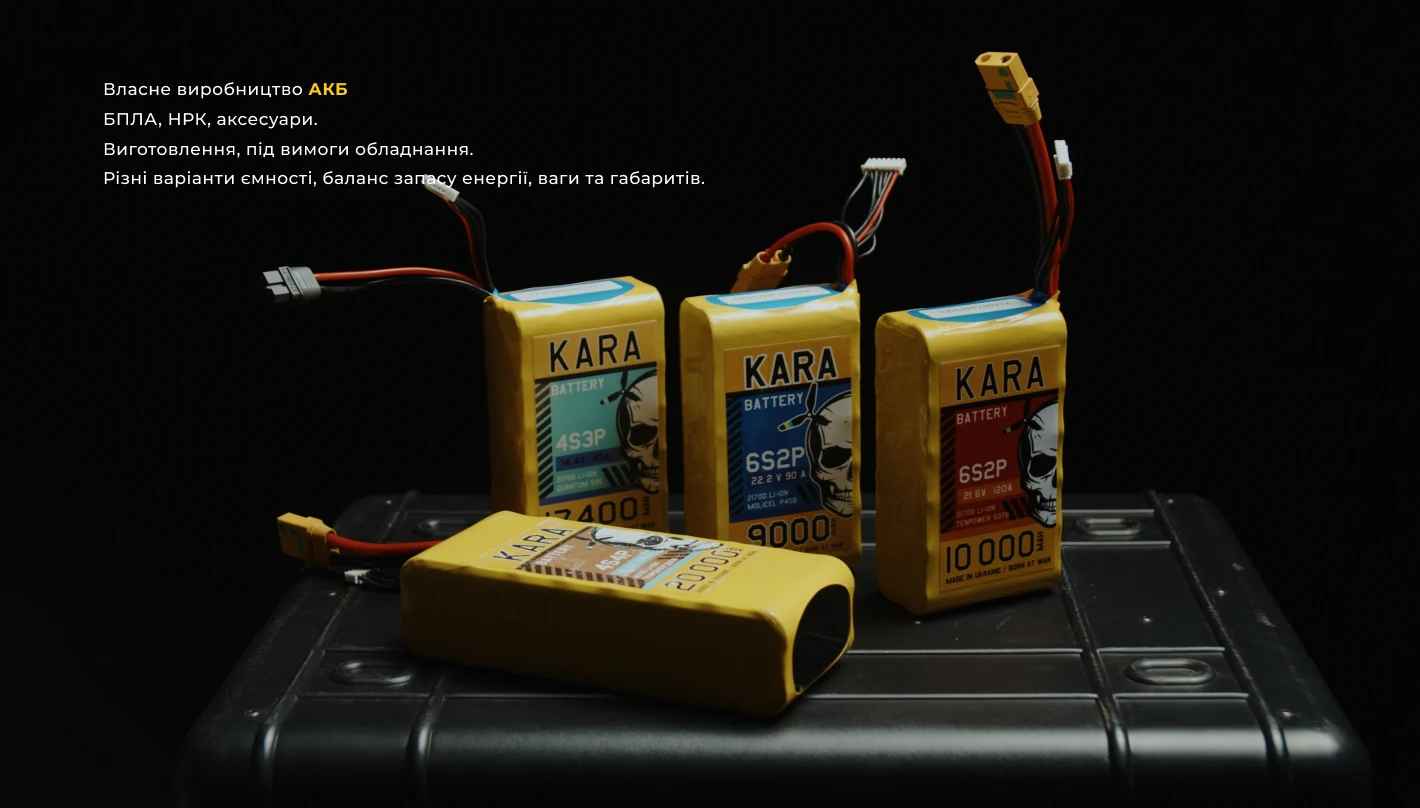
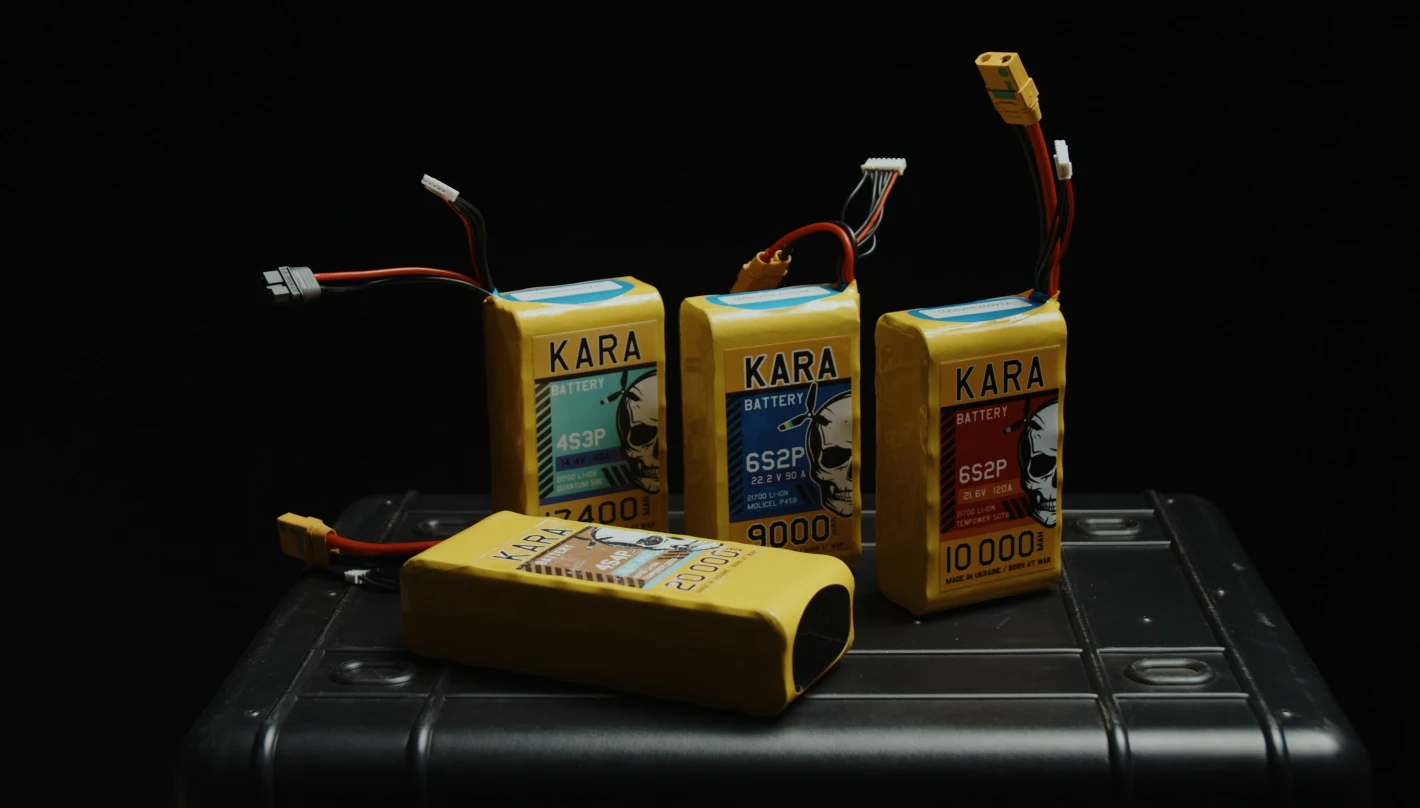
Make АКБ block text live HTML over the clean photo
Claude-Session: https://claude.ai/code/session_01MfH5VTR5wfrXfVXVJU18aH

Changed region(s): [[0.062, 0.0928, 0.4958, 0.2475]]

diff --git a/html/gstation.html b/html/gstation.html
@@ -140,7 +140,13 @@
 
     <!-- ============ 06 АКБ ============ -->
     <section class="gs-akb">
-      <img src="../assets/gs-akb.webp" alt="Власне виробництво АКБ для БПЛА, НРК, аксесуари. Виготовлення під вимоги обладнання. Різні варіанти ємності, баланс запасу енергії, ваги та габаритів." width="1420" height="808" loading="lazy" decoding="async" />
+      <div class="gs-akb__text">
+        <p>Власне виробництво <b class="gs-accent">АКБ</b></p>
+        <p>БПЛА, НРК, аксесуари.</p>
+        <p>Виготовлення, під вимоги обладнання.</p>
+        <p>Різні варіанти ємності, баланс запасу енергії, ваги та габаритів.</p>
+      </div>
+      <img src="../assets/gs-akb.webp" alt="Акумуляторні батареї KARA Battery" width="1420" height="808" loading="lazy" decoding="async" />
     </section>
 
     <!-- ============ CONTACT (ЗАЯВКА) ============ -->

diff --git a/css/gstation.css b/css/gstation.css
@@ -161,7 +161,13 @@ body.is-menu-open { overflow: hidden; }
 
 .gs-gallery--3 { grid-template-columns: 1fr; gap: 12px; }
 
-.gs-akb { background: var(--bg-deep); padding: 70px 0 0; }
+.gs-akb { position: relative; background: var(--bg-deep); padding: 70px 0 0; }
+
+.gs-akb__text { padding: 0 var(--gutter) 32px; }
+
+.gs-akb__text p { font-size: 15px; line-height: 1.75; font-weight: 500; text-align: left; }
+
+.gs-akb__text b { font-weight: 800; }
 
 .gs-akb img { display: block; width: 100%; height: auto; }
 
@@ -240,4 +246,12 @@ body.is-menu-open { overflow: hidden; }
 
 @media (prefers-reduced-motion: reduce) {
   * { animation: none !important; scroll-behavior: auto !important; }
+}
+
+@media (min-width: 721px) {
+
+  .gs-akb__text { position: absolute; top: calc(70px + 5%); left: 0; right: 0; padding: 0 var(--gutter); z-index: 1; }
+
+  .gs-akb__text p { font-size: clamp(14px, 1.2vw, 18px); line-height: 1.75; }
+
 }
